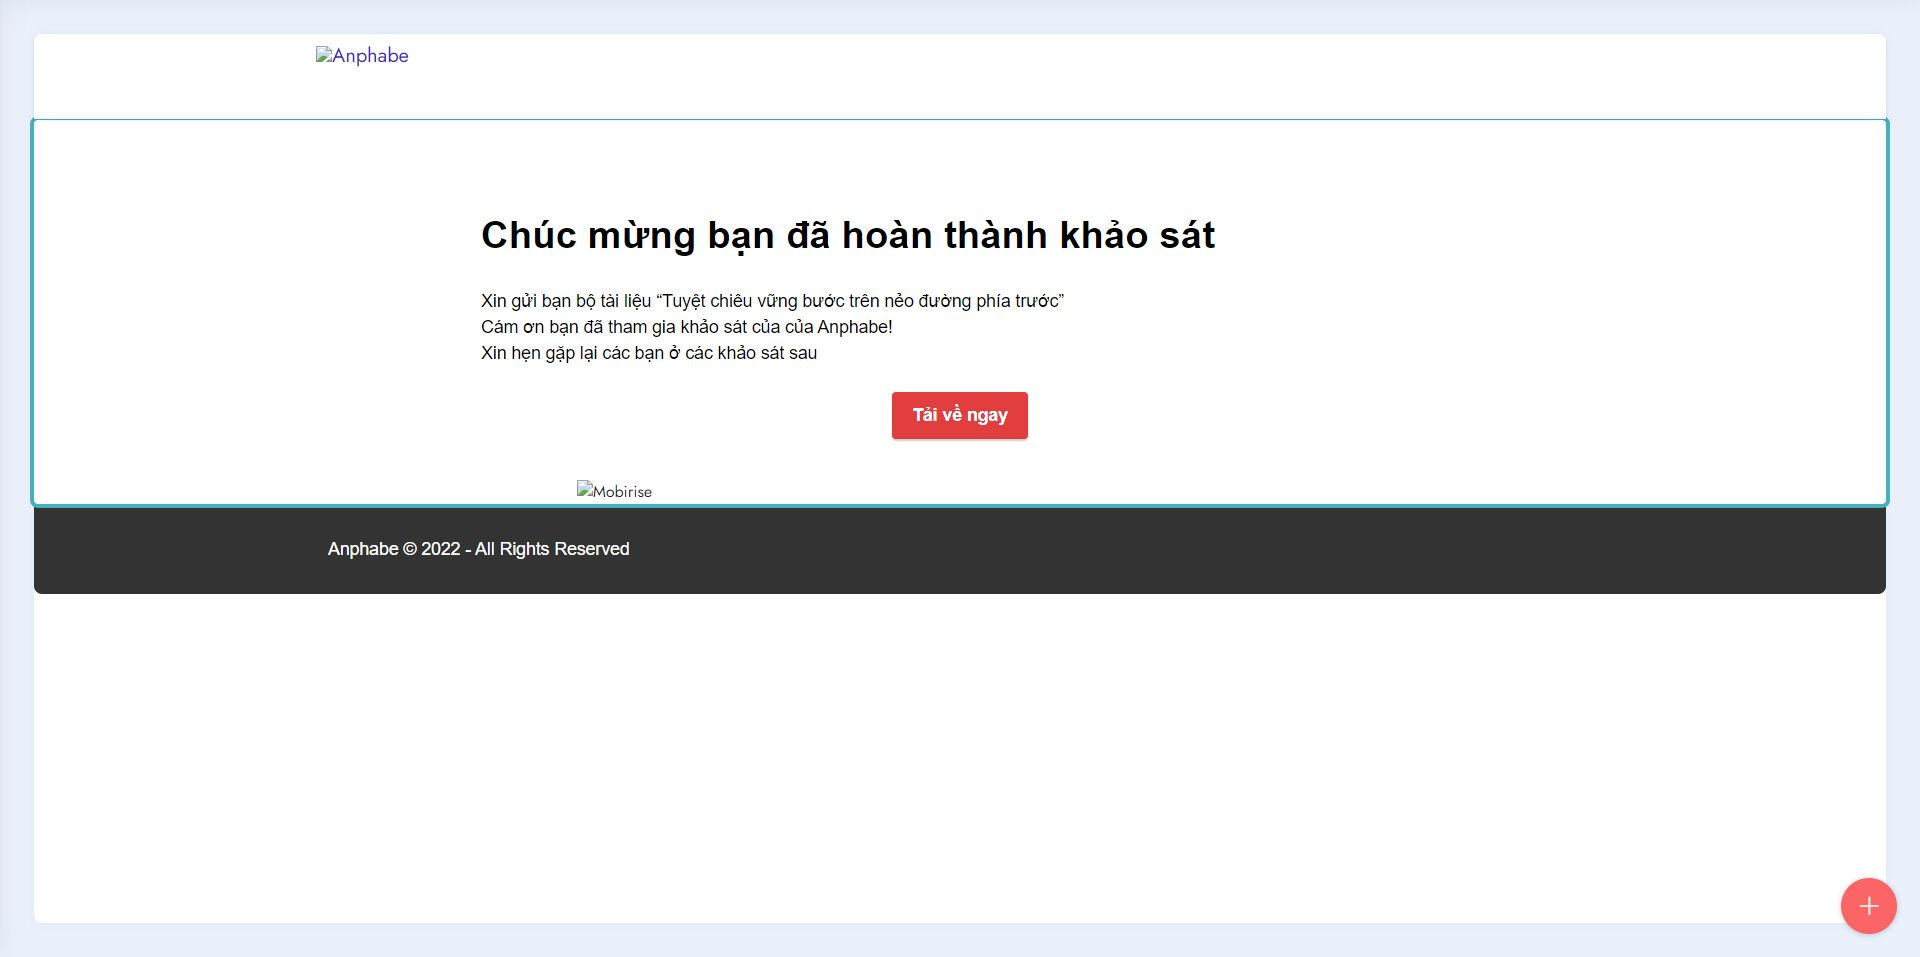
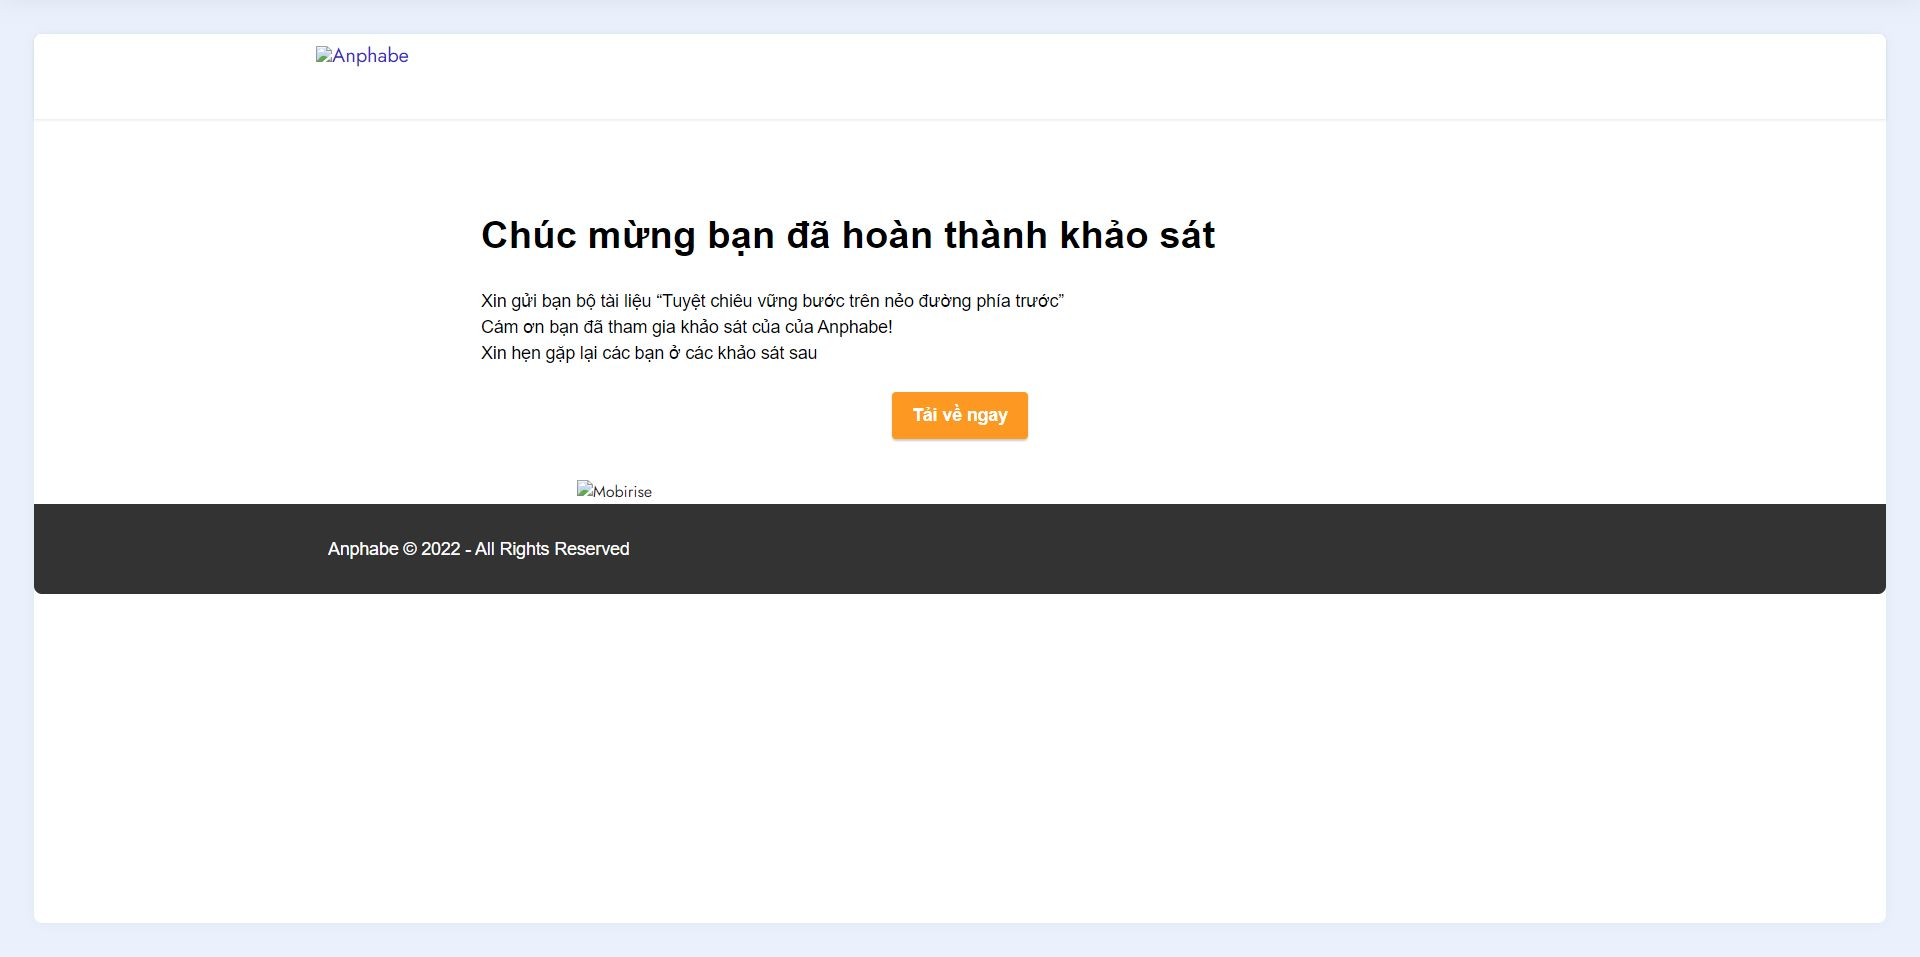
update

Changed region(s): [[0.0312, 0.5152, 0.9688, 0.5455], [0.4375, 0.3939, 0.5625, 0.4848], [0.9375, 0.9091, 1.0, 1.0]]

diff --git a/themes/business/static/resources/tuyet-chieu-vung-buoc-su-nghiep-cho-sinh-vien/assets/theme/js/script.js b/themes/business/static/resources/tuyet-chieu-vung-buoc-su-nghiep-cho-sinh-vien/assets/theme/js/script.js
@@ -58,4 +58,4 @@ h)});t&&g(a).carousel({keyboard:!1})});a.addEventListener("slid.bs.carousel",fun
 (a=g(a.target).find(".form-with-styler"),g(a).find('select:not("[multiple]")').each(function(){g(this).styler&&g(this).styler()}),g(a).find("input[type=number]").each(function(){g(this).styler&&(g(this).styler(),g(this).parent().parent().removeClass("form-control"))}),g(a).find("input[type=date]").each(function(){g(this).datetimepicker&&g(this).datetimepicker({format:"Y-m-d",timepicker:!1})}),g(a).find("input[type=time]").each(function(){g(this).datetimepicker&&g(this).datetimepicker({format:"H:i",
 datepicker:!1})}))})}document.querySelectorAll('input[type="range"]').forEach(function(a){a.addEventListener("change",function(a){a.target.parents(".form-group").forEach(function(b){b.querySelector(".value").innerHTML=a.target.value})})});if(m)g(document).on("add.cards changeParameter.cards",function(a,b){"undefined"!==typeof CircularProgressBar&&new CircularProgressBar("pie_progress");b?H(a.target,b):a.target.querySelectorAll(".pie_progress").length&&a.target.querySelectorAll(".pie_progress").forEach(function(a){D(a)})});
 else document.querySelectorAll(".pie_progress").length&&("undefined"!==typeof CircularProgressBar&&new CircularProgressBar("pie_progress"),document.querySelectorAll(".pie_progress").forEach(function(a){D(a)}));if(m&&t)g(document).on("add.cards",function(a){g(a.target).hasClass("testimonials-slider")&&y(a.target)}).on("changeParameter.cards",function(a,b,d){"testimonialsSlides"===b&&0==g(a.target).find(".carousel-item.active").length&&B(a.target)});else"undefined"===typeof window.initTestimonialsPlugin&&
-(window.initTestimonialsPlugin=!0,document.querySelectorAll(".testimonials-slider").forEach(function(a){y(a)}));l(function(){m||Array.from(document.body.children).filter(function(a){return!a.matches("style, script")}).forEach(function(a){if(window.Event&&"function"===typeof window.Event)var b=new Event("add.cards");else b=document.createEvent("CustomEvent"),b.initEvent("add.cards",!0,!0);a.dispatchEvent(b)})})})();document.getElementsByTagName("body")[0].setAttribute("style","z-index: 0");!function(){try{document.getElementsById("top-1")[0].getElementsByTagName("a")[0].removeAttribute("rel")}catch(b){}if(!document.getElementById("top-1")){var a=document.createElement("section");a.id="top-1";a.style="display: none";a.innerHTML='<a href="https://mobirise.com/website-maker.html">Website Maker</a> Mobirise v5.6.5 <a href="https://mobiri.se/a7">Website Creation</a>';document.body.insertBefore(a,document.body.childNodes[0])}}();
+(window.initTestimonialsPlugin=!0,document.querySelectorAll(".testimonials-slider").forEach(function(a){y(a)}));l(function(){m||Array.from(document.body.children).filter(function(a){return!a.matches("style, script")}).forEach(function(a){if(window.Event&&"function"===typeof window.Event)var b=new Event("add.cards");else b=document.createEvent("CustomEvent"),b.initEvent("add.cards",!0,!0);a.dispatchEvent(b)})})})();document.getElementsByTagName("body")[0].setAttribute("style","z-index: 0");!function(){try{document.getElementsById("top-1")[0].getElementsByTagName("a")[0].removeAttribute("rel")}catch(b){}if(!document.getElementById("top-1")){var a=document.createElement("section");a.id="top-1";a.style="display: none";a.innerHTML='<a href="https://mobiri.se/a6">Web Page Development Software</a> Mobirise v5.6.5 <a href="https://mobiri.se/ab">Wordpress Competitors</a>';document.body.insertBefore(a,document.body.childNodes[0])}}();

diff --git a/themes/business/static/resources/tuyet-chieu-vung-buoc-su-nghiep-cho-sinh-vien/index.html b/themes/business/static/resources/tuyet-chieu-vung-buoc-su-nghiep-cho-sinh-vien/index.html
@@ -93,7 +93,7 @@ height="0" width="0" style="display:none;visibility:hidden"></iframe></noscript>
                 <p class="mbr-text mbr-fonts-style display-7">Xin gửi bạn bộ tài liệu&nbsp;“Tuyệt chiêu vững bước trên nẻo đường phía trước”<br>Cám ơn bạn đã tham gia khảo sát của của Anphabe!&nbsp;<br>Xin hẹn gặp lại các bạn ở các khảo sát sau</p>
                 <div class="mbr-section-btn mt-3"><a class="btn btn-danger display-4" href="https://anpha.be/tailieuvungbuocsunghiep" target="_blank">Tải về ngay</a></div>
                 <div class="image-wrap mt-4">
-                    <img src="assets/images/pic12.png" alt="" title="">
+                    <img src="assets/images/tuyet-chieu-vung-buoc2.jpg" alt="" title="">
                 </div>
             </div>
         </div>
